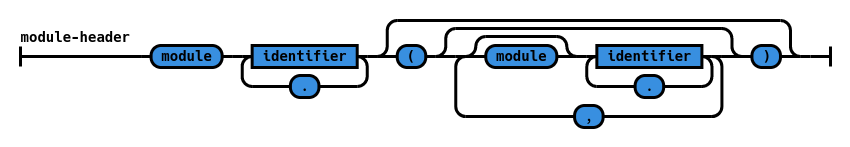
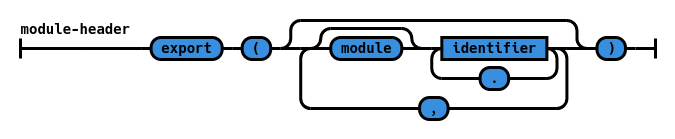
change the module header to an export list

Changed region(s): [[0.0, 0.1151, 0.9956, 0.8921]]

diff --git a/part1-zilch.tex b/part1-zilch.tex
@@ -621,11 +621,16 @@ Any declaration accepts zero or more meta-specifiers, but each specifier is rest
 Modules allow grouping functions and types that are related to each other under a common namespace.
 In Zilch, modules provide grouping, importing and visibility restrictions.
 
-A Zilch module is declared as per Figure~\ref{fig:zilch-grammar-modules-headergrammar} and can contain, in this order, many (possibly none) \texttt{import} statements (see Figure~\ref{fig:zilch-grammar-modules-importgrammar}) and any number of declarations as described in Section~\ref{sec:zilch-grammar-declarations}~``\nameref{sec:zilch-grammar-declarations}''.
+A Zilch module is declared according to the name and position of the file in the include path.
+For example, if a file is named \verb|Internal.zc| in the directory \verb|Data/Something/A|, then it exports a module \verb|Data.Something.A.Internal|.
+
+It can contain, in this order, an export list, many (possibly none) \texttt{import} statements (see Figure~\ref{fig:zilch-grammar-modules-importgrammar}) and any number of declarations as described in Section~\ref{sec:zilch-grammar-declarations}~``\nameref{sec:zilch-grammar-declarations}''.
+
 A module $A$ may export another module $B$, meaning that anything imported from $B$ into $A$'s scope is exported by $A$.
-If a plain function is aliased\footnote{Mixfix operators cannot be aliased because it would lead to many problems.} from the import of $B$ in $A$, the new name is exported by $A$ instead of the old one.
+If a plain function is aliased\footnote{Infix operators cannot be aliased because it would lead to many problems.} from the import of $B$ in $A$, the new name is exported by $A$ instead of the old one.
 Operator fixities are exported only if their corresponding operators are also exported.
 All imports are qualified, unless when \verb|open|ed.
+An empty or unspecified export list is equivalent to exporting nothing from the module.
 
 \begin{figure}[H]
   \centering

diff --git a/railroad-diagrams.py b/railroad-diagrams.py
@@ -1537,29 +1537,21 @@ def zilch_mixfix_type():
 
 def zilch_module_header():
 	inner = Sequence(
-		Terminal('module'),
-		OneOrMore(
-			NonTerminal('identifier'),
-			Terminal('.')
-		),
-		Optional(
+		Terminal('export'),
+		Terminal('('),
+		ZeroOrMore(
 			Sequence(
-				Terminal('('),
-				ZeroOrMore(
-					Sequence(
-						Optional(
-							Terminal('module')
-						),
-						OneOrMore(
-							NonTerminal('identifier'),
-							Terminal('.')
-						)
-					),
-					Terminal(',')
+				Optional(
+					Terminal('module')
 				),
-				Terminal(')')
-			)
-		)
+				OneOrMore(
+					NonTerminal('identifier'),
+					Terminal('.')
+				)
+			),
+			Terminal(',')
+		),
+		Terminal(')')
 	)
 
 	return mk_diagram2('module-header', inner)
@@ -1689,4 +1681,4 @@ def zilch_letin():
 
 	return mk_diagram2('let-in', inner)
 
-zilch_pattern().writeSvg(sys.stdout.write)
+zilch_module_header().writeSvg(sys.stdout.write)
